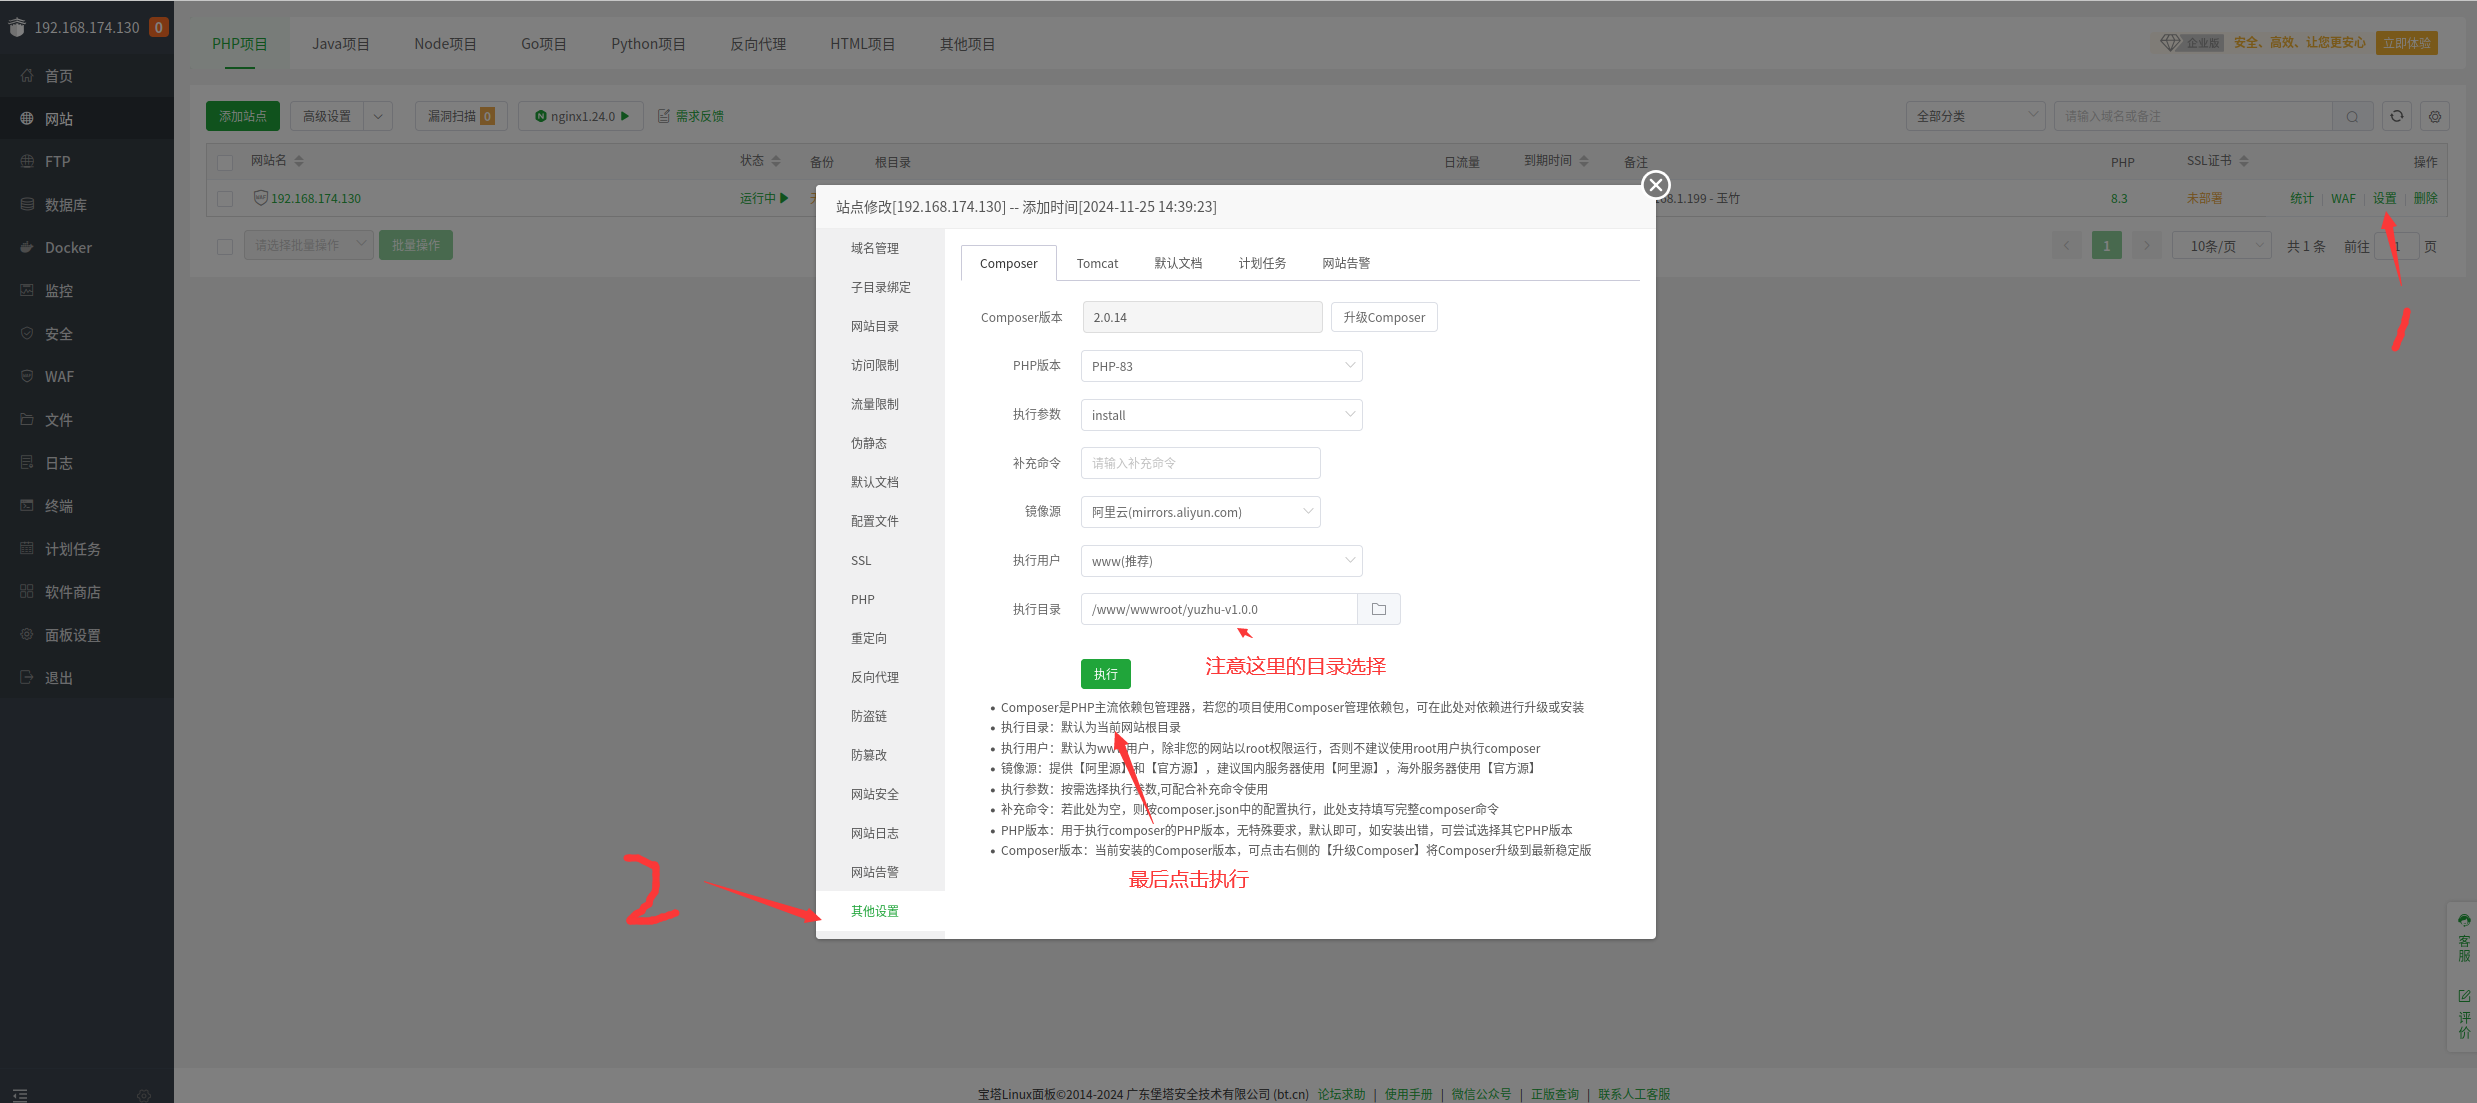
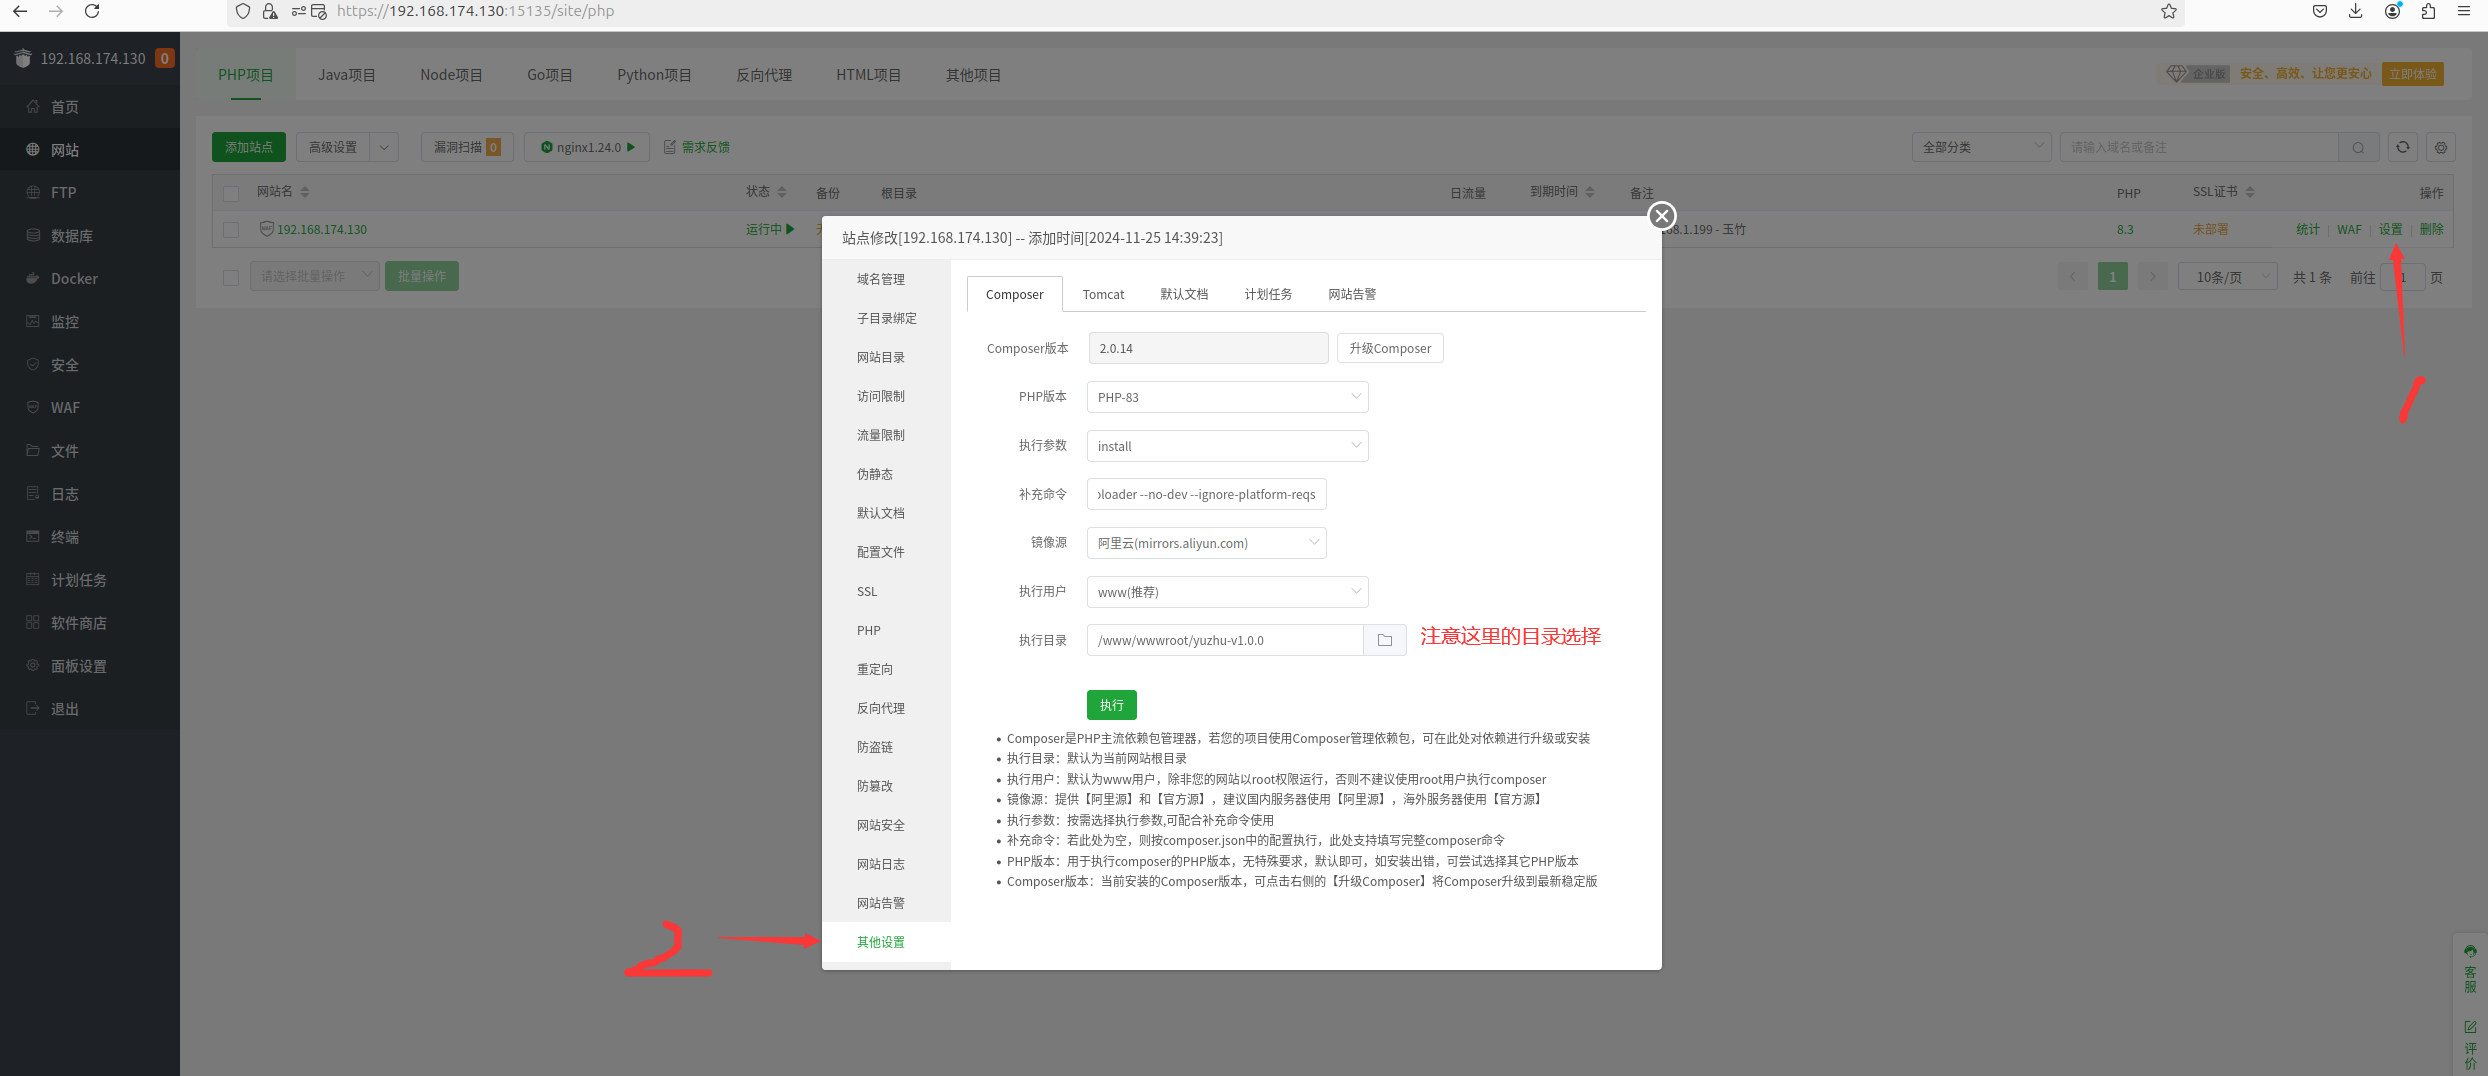
update

diff --git a/docs/guide/bt-deploy.md b/docs/guide/bt-deploy.md
@@ -15,6 +15,7 @@
 
 ![](../images/bt14.png)
 
+
 ## 添加数据库
 
 ![](../images/bt15.png)
@@ -57,9 +58,19 @@ location ~ \.php$ {
 
 ![](../images/bt23.png)
 
+点击【升级Composer】,提示升级成功后，点击左侧的【其他设置】，composer 会应用最新的版本。
+
 复制 `--optimize-autoloader --no-dev --ignore-platform-reqs` 粘贴到【补充命令】那里。
+
+配置好后点击【执行】。
 
 
 ![](../images/bt22.png)
 
 
+
+一点修改：
+
+![](../images/bt24.png)
+
+![](../images/bt25.png)
